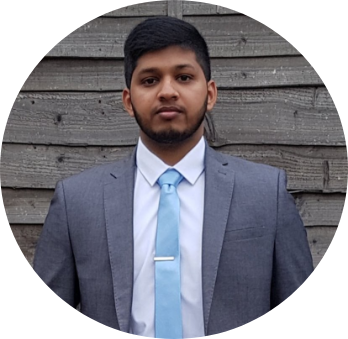
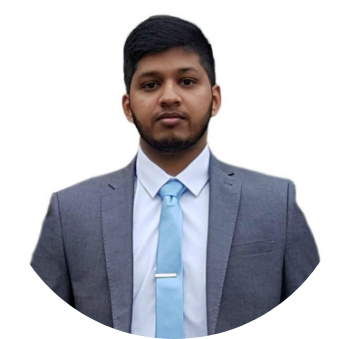
Add About-me text and new profile image

diff --git a/about-me.html b/about-me.html
@@ -1,0 +1,83 @@
+<!DOCTYPE html>
+<html>
+    <head>
+        <link rel="stylesheet" href="https://maxcdn.bootstrapcdn.com/bootstrap/4.0.0/css/bootstrap.min.css" integrity="sha384-Gn5384xqQ1aoWXA+058RXPxPg6fy4IWvTNh0E263XmFcJlSAwiGgFAW/dAiS6JXm" crossorigin="anonymous">
+        <link rel="stylesheet" href="web-files/styles/base.css">
+        <link rel="stylesheet" href="web-files/styles/about-me.css">
+        <meta name="viewport" content="width=device-width, initial-scale=1">
+        <title>About</title>
+    </head>
+    <body>
+        <nav class="navbar sticky-top">
+            <div class="text-center">
+                <a class="navbar-brand text-center" href="index.html">
+                    <img src="images/MY_LOGO.png" width="92" height="118" alt="Aflal Asker" class="logo">
+                </a>
+            </div>
+        </nav>
+        <div class="container">
+            <div class="title-and-text">
+                <h3 class="title">About Me</h3>
+                <p class="text">
+                    Hi there, my name is Aflal, and I am an undergraduate final year Computer Science student at Kings College London. 
+                    <br><br>
+                    Programming has been my growing passion, ever since I built my first basic website. My degree has assisted me to 
+                    build my programming skills and to learn many advantageous practices of coding.  
+                    <br><br>
+                    Since my initial exposure to programming, I have acquired knowledge on several programming languages and have 
+                    worked on multiple software projects which has further built and solidified my comprehension of the constructs 
+                    in the language used.
+                    <br><br>
+                    Surprisingly 😉, I do enjoy doing other activities other than programming. I appreciate an occasional gaming 
+                    session; I am currently in love with Super Mario Odyssey. Infrequently, I go out with my fellow nerds, watch 
+                    a movie together and discuss about a few nerdy stuff 😉. Physical activities that I engage myself in, 
+                    includes; working out in the gym and playing cricket. Besides, I also enjoy an occasional pool or snooker 
+                    session with my friends.  
+                    <br><br>
+                    Large scale projects that often scale for a few weeks, tend to captivate my leisure. Usually, these projects 
+                    tend to be of me building workstation grade and gaming computers, and sometimes fixing them. I also enjoy 
+                    trying out new computer hardware and going hands-on with striking newly-released tech gadgets. 
+                </p>
+                <h3 class="title">What do I do other than programming and working on projects?</h3>
+                <p class="text">
+                        Well, I teach others to code. I know, I am revolving in this programming bubble. I teach and train 
+                        college students to code. Most of these students are exposed to coding by me, and therefore I help 
+                        them to build their first ‘Hello World’ application 😉. Of course, the Hello World application is 
+                        just to start off, I guide the students through building their first website. In the last workshop 
+                        that I led, I helped the students to build their portfolio website using HTML, CSS and some 
+                        JavaScript for interactivity, hence, giving them a platform to present their work.
+                        <br><br>
+                        My passion for web development enables me to undertake similar workshops whereas my enthusiasm 
+                        in this field engages students greatly in my presentations. Every student at the end has a 
+                        working portfolio website, an intriguing interest on web development and students leave with 
+                        a keen interest on web development, which ultimately motivates me to do more.
+                </p>
+            </div>
+
+            <div class="text-center links-to-pages row">
+                <a href="https://github.com/aflalasker" target="_blank" class="btn btn-secondary col-lg-4 col-md-4 col-sm-12 col-xs-12">&lt;GITHUB/&gt;</a>
+                <a href="#" class="btn btn-secondary col-lg-4 col-md-4 col-sm-12 col-xs-12" target="_blank">&lt;WEBSITE/&gt;</a>
+            </div>
+
+            <div class="text-center social-media-links">
+
+                    <a href="https://www.facebook.com/aflal.asker" class="icons" target="_blank">
+                        <img src="images/ICONS/FACEBOOK-ICON.png" alt="" class="icon-img">
+                    </a>
+
+                    <a href="https://www.instagram.com/aflal_asker/" class="icons" target="_blank">
+                        <img src="images/ICONS/INSTAGRAM_ICON.png" class="icon-img" alt="">
+                    </a>
+
+                    <a href="https://www.linkedin.com/in/aflal-asker/" class="icons" target="_blank">
+                        <img src="images/ICONS/LINKEDIN-ICON.png" class="icon-img" alt="">
+                    </a>
+
+            </div>
+            <br>
+        </div>
+        <script src="https://code.jquery.com/jquery-3.2.1.slim.min.js" integrity="sha384-KJ3o2DKtIkvYIK3UENzmM7KCkRr/rE9/Qpg6aAZGJwFDMVNA/GpGFF93hXpG5KkN" crossorigin="anonymous"></script>
+        <script src="https://cdnjs.cloudflare.com/ajax/libs/popper.js/1.12.9/umd/popper.min.js" integrity="sha384-ApNbgh9B+Y1QKtv3Rn7W3mgPxhU9K/ScQsAP7hUibX39j7fakFPskvXusvfa0b4Q" crossorigin="anonymous"></script>
+        <script src="https://maxcdn.bootstrapcdn.com/bootstrap/4.0.0/js/bootstrap.min.js" integrity="sha384-JZR6Spejh4U02d8jOt6vLEHfe/JQGiRRSQQxSfFWpi1MquVdAyjUar5+76PVCmYl" crossorigin="anonymous"></script>
+    </body>
+</html>

diff --git a/index.html b/index.html
@@ -23,11 +23,11 @@
 
             <div class="text-center name-and-bio">
                 <h3 class="text-center my-name">Aflal Asker</h3>
-                <p class="text-center mini-bio">A Final Year Computer Scientist <br> from <br> King's College London</p>
+                <p class="text-center mini-bio">A Final Year Computer Scientist <br> at <br> King's College London</p>
             </div>
 
             <div class="text-center links-to-pages row">
-                <a href="web-files/html/about-me.html" class="btn btn-secondary col-lg-3 col-md-3 col-sm-12 col-xs-12">&lt;ABOUT ME/&gt;</a>
+                <a href="about-me.html" class="btn btn-secondary col-lg-3 col-md-3 col-sm-12 col-xs-12">&lt;ABOUT ME/&gt;</a>
                 <a href="https://github.com/aflalasker" target="_blank" class="btn btn-secondary col-lg-3 col-md-3 col-sm-12 col-xs-12">&lt;GITHUB/&gt;</a>
                 <a href="#" class="btn btn-secondary col-lg-3 col-md-3 col-sm-12 col-xs-12" target="_blank">&lt;WEBSITE/&gt;</a>
             </div>
